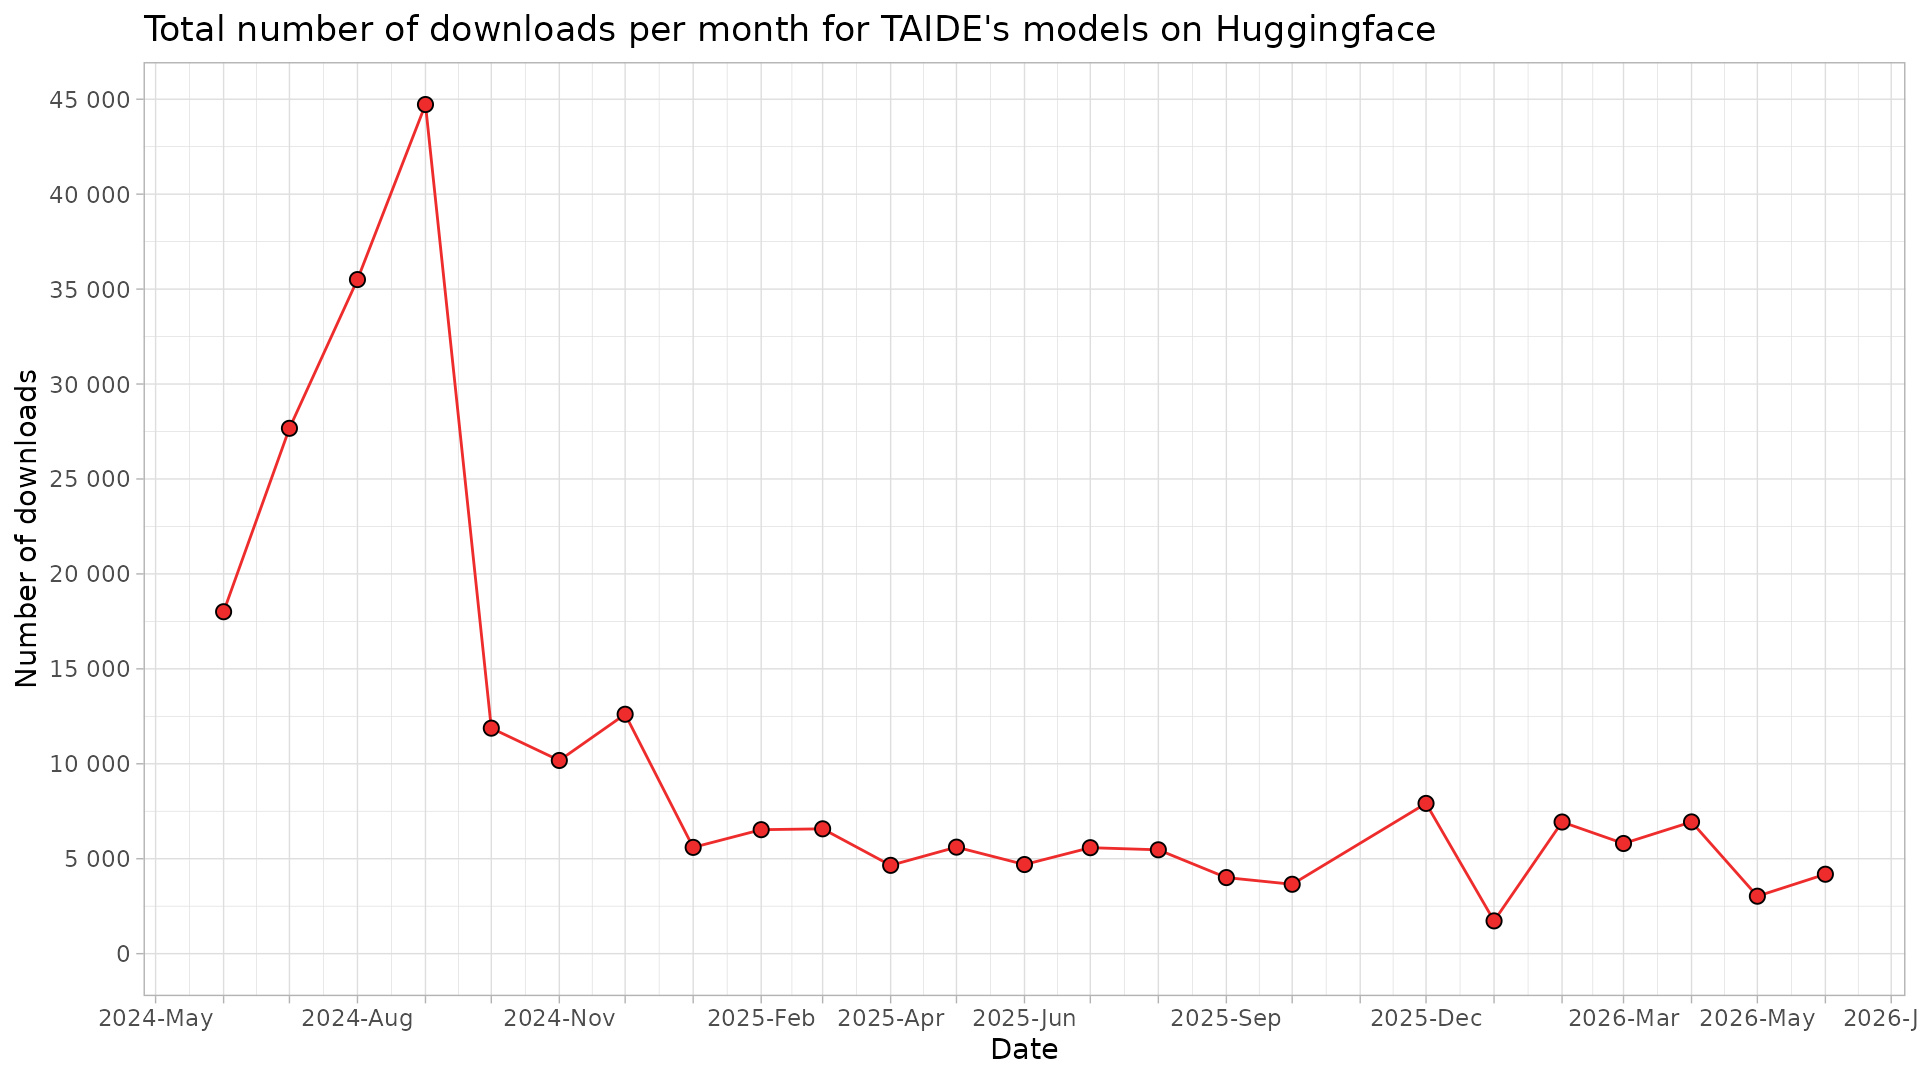
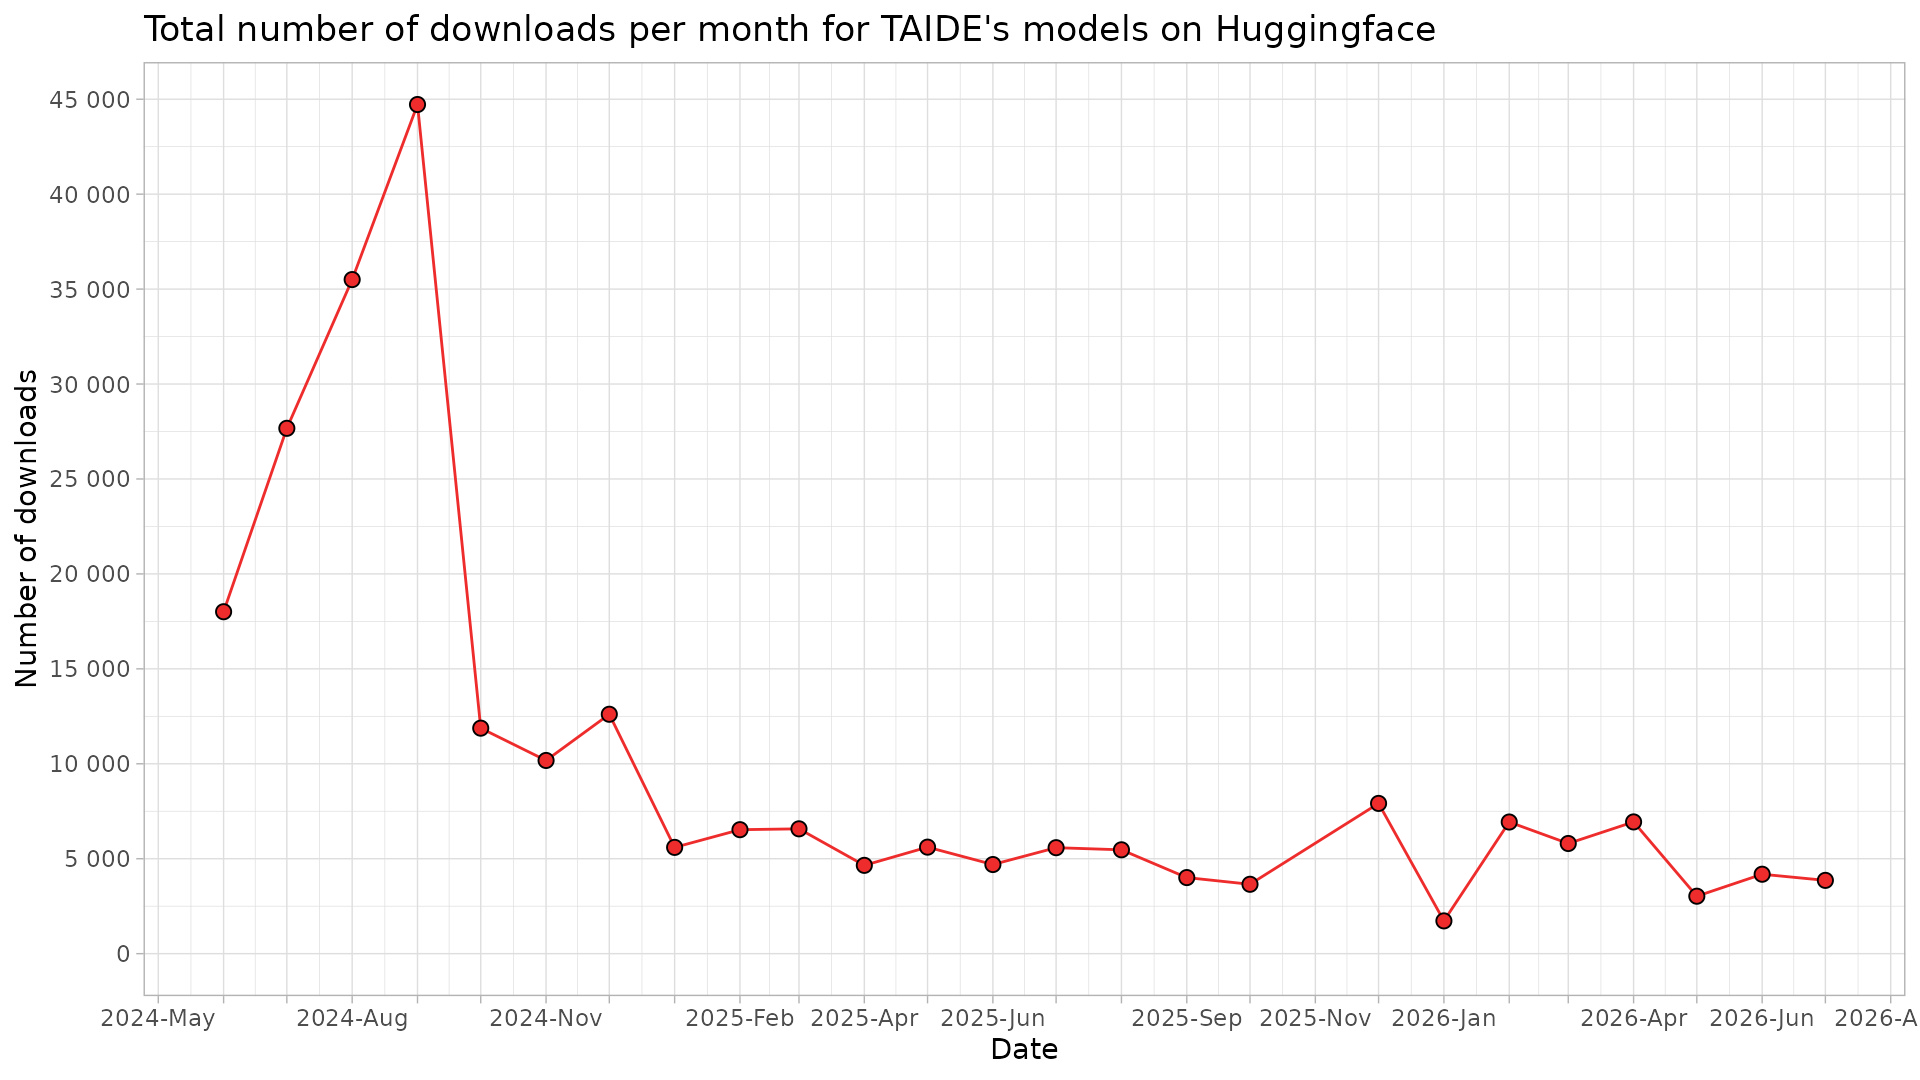
update

diff --git a/README.md b/README.md
@@ -11,18 +11,19 @@ Script is run monthly, and a monthly `csv`-file outputted to `/data` folder.
 !["Huggingface downloads by model plot."](https://github.com/nctu6/huggingface_stats/blob/main/plots/downloads_by_model.jpg)
 
 ## Table of downloads
-|model_name                          | downloadsAllTime| 2026-06| 2026-05| 2026-04| 2026-03| 2026-02| 2026-01| 2025-12| 2025-10| 2025-09| 2025-08| 2025-07| 2025-06| 2025-05| 2025-04| 2025-03| 2025-02| 2025-01| 2024-12| 2024-11| 2024-10| 2024-09| 2024-08| 2024-07| 2024-06|
-|:-----------------------------------|----------------:|-------:|-------:|-------:|-------:|-------:|-------:|-------:|-------:|-------:|-------:|-------:|-------:|-------:|-------:|-------:|-------:|-------:|-------:|-------:|-------:|-------:|-------:|-------:|-------:|
-|Llama3-TAIDE-LX-8B-Chat-Alpha1      |           120955|     765|     777|    4444|    4270|     319|     337|    3073|     346|     171|     348|    1416|     446|    1549|    1675|    3484|    4922|    3122|    8215|    5272|    5042|   21499|   27164|   11808|   10491|
-|TAIDE-LX-7B-Chat                    |            63817|     188|     135|      87|       8|     383|      82|     290|     437|     184|     276|    1228|     776|     591|     527|    1045|     909|    1036|    1455|    3774|    6130|   21600|    3495|   14122|    5059|
-|Llama-3.1-TAIDE-LX-8B-Chat          |            27132|    1289|     602|     509|     728|     313|     471|    3281|    1339|    1774|    4689|    2699|    3139|    2770|    1975|    1554|       0|       0|       0|       0|       0|       0|       0|       0|       0|
-|TAIDE-LX-7B                         |            14440|     512|     102|     113|      45|      26|      39|      73|      42|      27|      48|     141|     222|     558|     338|     145|     215|    1150|    2491|     463|     215|     860|    4063|    1098|    1454|
-|Gemma-3-TAIDE-12b-Chat              |            11886|     331|     260|     111|     340|    5816|     745|    1141|    1369|    1763|      10|       0|       0|       0|       0|       0|       0|       0|       0|       0|       0|       0|       0|       0|       0|
-|Llama3-TAIDE-LX-8B-Chat-Alpha1-4bit |             4324|      14|       8|      20|      22|      40|      28|      37|      92|      51|      76|      63|      72|     102|      99|     252|     172|     185|     312|     444|     301|     527|     324|     412|     671|
-|Gemma-3-TAIDE-12b-Chat-2602         |             4109|    1025|    1085|    1627|     372|       0|       0|       0|       0|       0|       0|       0|       0|       0|       0|       0|       0|       0|       0|       0|       0|       0|       0|       0|       0|
-|TAIDE-LX-7B-Chat-4bit               |             2253|      59|      57|      27|      17|      36|      24|      18|      29|      37|      22|      34|      39|      40|      37|      94|     311|     104|     135|     217|     107|     194|     148|     208|     259|
-|b.11.0.0                            |              355|       0|       0|       0|       0|       0|       0|       0|       0|       0|       0|       0|       0|       0|       0|       0|       0|       0|       0|       5|       0|       7|     302|       5|      36|
-|llava_llama3_8b_clip336_e           |              115|       0|       0|       0|       0|       0|       0|       0|       0|       0|       0|       0|       0|       0|       0|       0|       0|       0|       0|       0|      81|      34|       0|       0|       0|
-|a.2.0.0                             |               24|       0|       0|       0|       0|       0|       0|       0|       0|       0|       0|       0|       0|       0|       0|       0|       0|       0|       0|       0|       0|       0|       0|       0|      24|
-|e.1.1.0                             |               19|       0|       0|       0|       0|       0|       0|       0|       0|       0|       0|       0|       0|       0|       0|       0|       0|       0|       0|       0|       0|       0|       5|       0|      14|
-|b.1.0.0                             |               15|       0|       0|       0|       0|       0|       0|       0|       0|       0|       0|       0|       0|       0|       0|       0|       0|       0|       0|       0|       0|       0|       0|      15|       0|
+|model_name                          | downloadsAllTime| 2026-07| 2026-06| 2026-05| 2026-04| 2026-03| 2026-02| 2026-01| 2025-12| 2025-10| 2025-09| 2025-08| 2025-07| 2025-06| 2025-05| 2025-04| 2025-03| 2025-02| 2025-01| 2024-12| 2024-11| 2024-10| 2024-09| 2024-08| 2024-07| 2024-06|
+|:-----------------------------------|----------------:|-------:|-------:|-------:|-------:|-------:|-------:|-------:|-------:|-------:|-------:|-------:|-------:|-------:|-------:|-------:|-------:|-------:|-------:|-------:|-------:|-------:|-------:|-------:|-------:|-------:|
+|Llama3-TAIDE-LX-8B-Chat-Alpha1      |           121905|     950|     765|     777|    4444|    4270|     319|     337|    3073|     346|     171|     348|    1416|     446|    1549|    1675|    3484|    4922|    3122|    8215|    5272|    5042|   21499|   27164|   11808|   10491|
+|TAIDE-LX-7B-Chat                    |            63946|     129|     188|     135|      87|       8|     383|      82|     290|     437|     184|     276|    1228|     776|     591|     527|    1045|     909|    1036|    1455|    3774|    6130|   21600|    3495|   14122|    5059|
+|Llama-3.1-TAIDE-LX-8B-Chat          |            27808|     676|    1289|     602|     509|     728|     313|     471|    3281|    1339|    1774|    4689|    2699|    3139|    2770|    1975|    1554|       0|       0|       0|       0|       0|       0|       0|       0|       0|
+|TAIDE-LX-7B                         |            14456|      16|     512|     102|     113|      45|      26|      39|      73|      42|      27|      48|     141|     222|     558|     338|     145|     215|    1150|    2491|     463|     215|     860|    4063|    1098|    1454|
+|Gemma-3-TAIDE-12b-Chat              |            11979|      93|     331|     260|     111|     340|    5816|     745|    1141|    1369|    1763|      10|       0|       0|       0|       0|       0|       0|       0|       0|       0|       0|       0|       0|       0|       0|
+|Gemma-3-TAIDE-12b-Chat-2602         |             5933|    1824|    1025|    1085|    1627|     372|       0|       0|       0|       0|       0|       0|       0|       0|       0|       0|       0|       0|       0|       0|       0|       0|       0|       0|       0|       0|
+|Llama3-TAIDE-LX-8B-Chat-Alpha1-4bit |             4337|      13|      14|       8|      20|      22|      40|      28|      37|      92|      51|      76|      63|      72|     102|      99|     252|     172|     185|     312|     444|     301|     527|     324|     412|     671|
+|TAIDE-LX-7B-Chat-4bit               |             2267|      14|      59|      57|      27|      17|      36|      24|      18|      29|      37|      22|      34|      39|      40|      37|      94|     311|     104|     135|     217|     107|     194|     148|     208|     259|
+|b.11.0.0                            |              355|       0|       0|       0|       0|       0|       0|       0|       0|       0|       0|       0|       0|       0|       0|       0|       0|       0|       0|       0|       5|       0|       7|     302|       5|      36|
+|embeddinggemma-GTAIDE-300m-2605     |              145|     145|       0|       0|       0|       0|       0|       0|       0|       0|       0|       0|       0|       0|       0|       0|       0|       0|       0|       0|       0|       0|       0|       0|       0|       0|
+|llava_llama3_8b_clip336_e           |              115|       0|       0|       0|       0|       0|       0|       0|       0|       0|       0|       0|       0|       0|       0|       0|       0|       0|       0|       0|       0|      81|      34|       0|       0|       0|
+|a.2.0.0                             |               24|       0|       0|       0|       0|       0|       0|       0|       0|       0|       0|       0|       0|       0|       0|       0|       0|       0|       0|       0|       0|       0|       0|       0|       0|      24|
+|e.1.1.0                             |               19|       0|       0|       0|       0|       0|       0|       0|       0|       0|       0|       0|       0|       0|       0|       0|       0|       0|       0|       0|       0|       0|       0|       5|       0|      14|
+|b.1.0.0                             |               15|       0|       0|       0|       0|       0|       0|       0|       0|       0|       0|       0|       0|       0|       0|       0|       0|       0|       0|       0|       0|       0|       0|       0|      15|       0|
